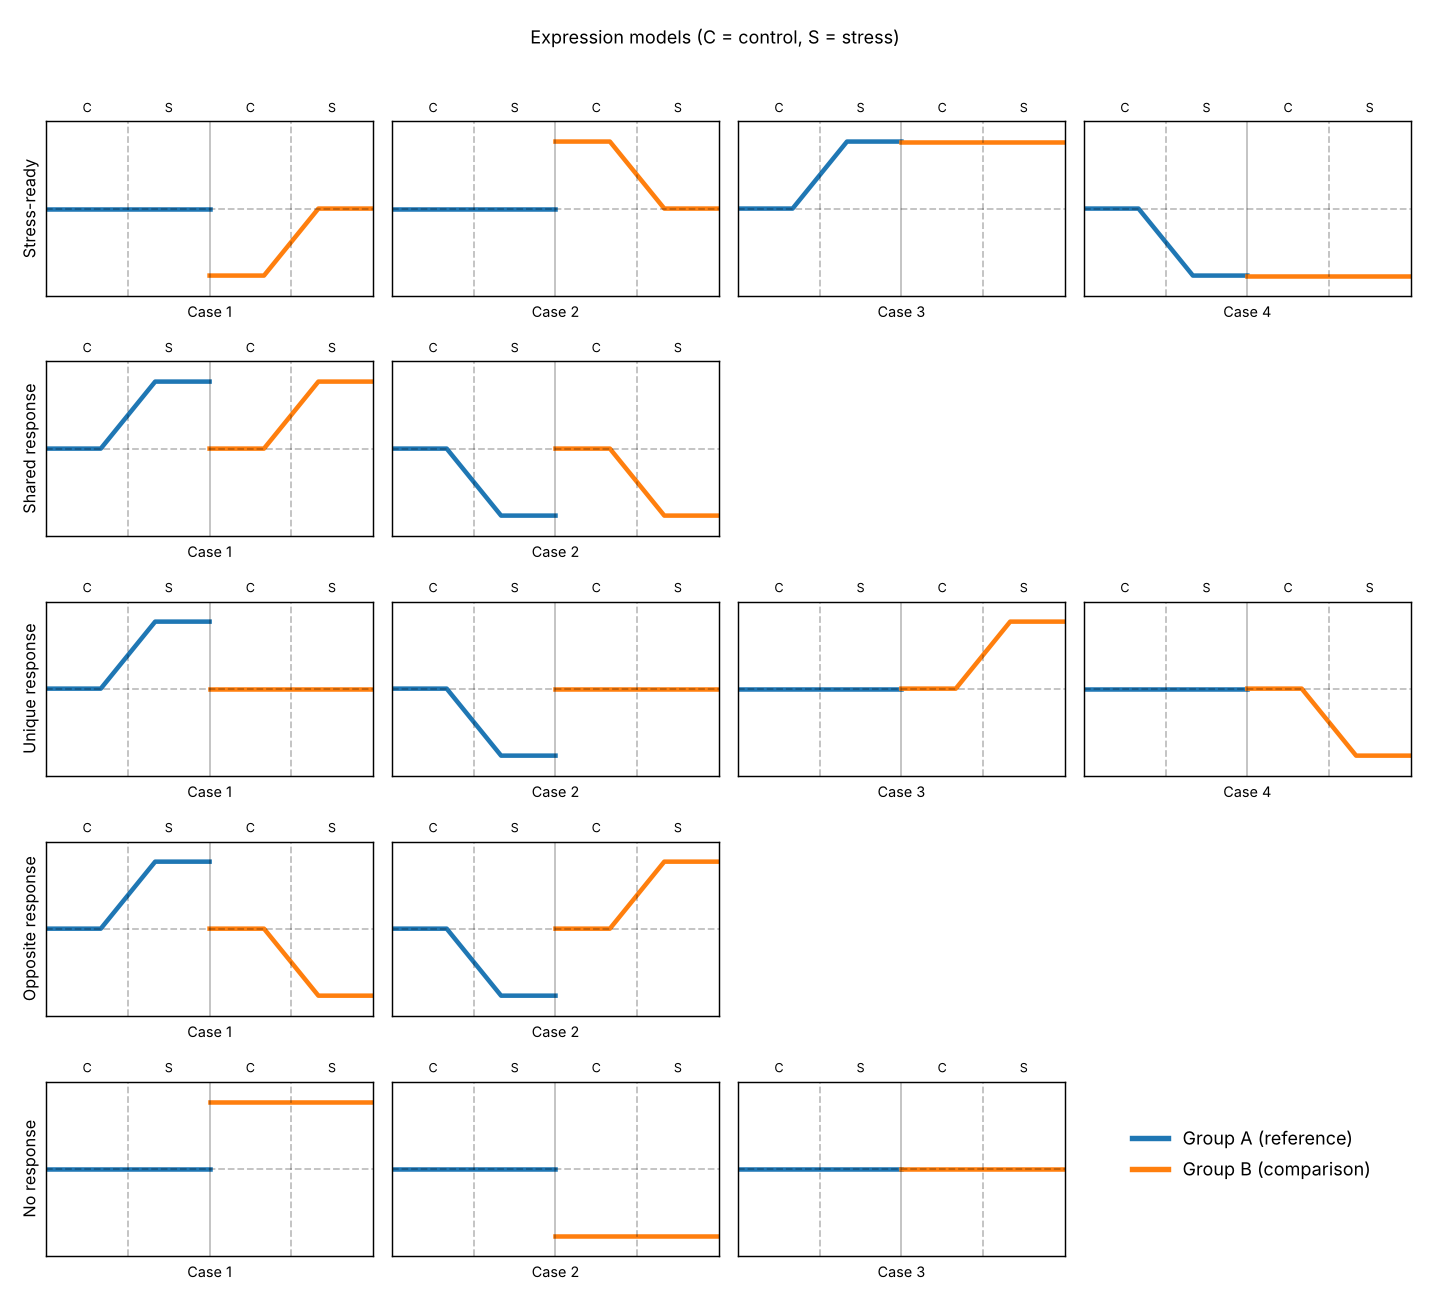
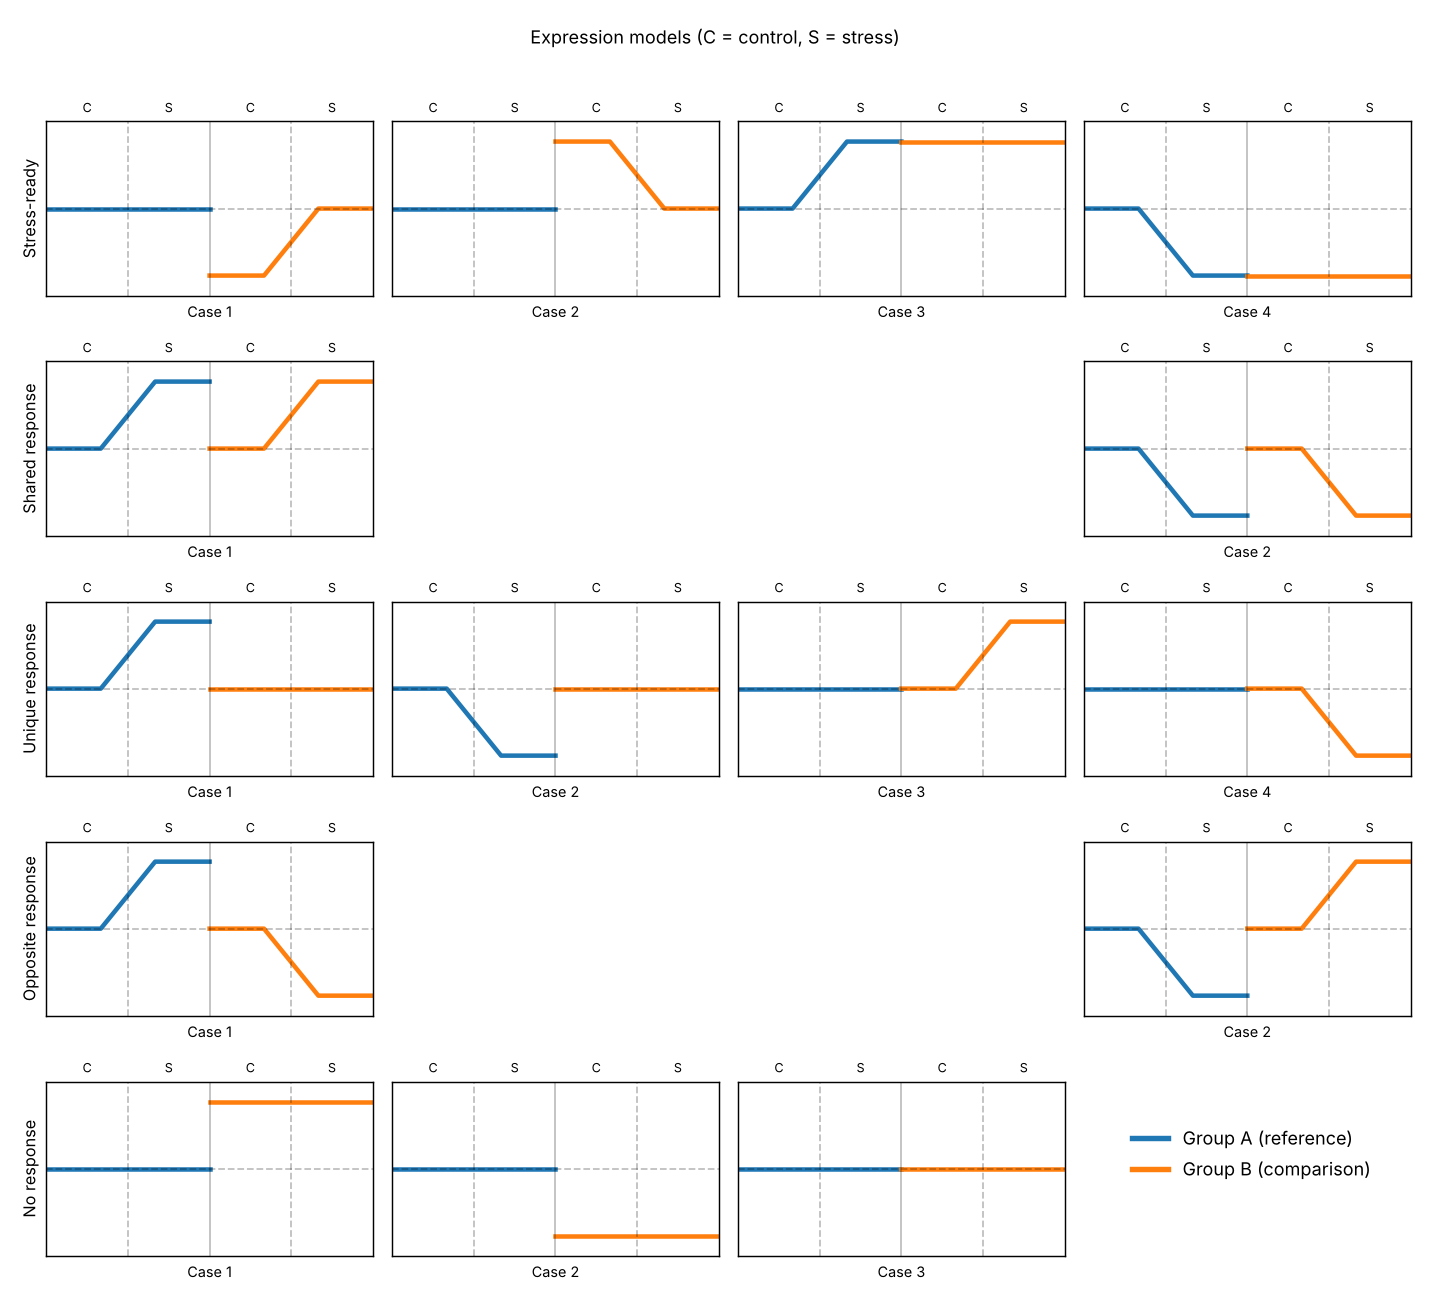
Plot: shared/opposite in outer columns; configurable row labels

diff --git a/python/src/orthoresponse/plotting.py b/python/src/orthoresponse/plotting.py
@@ -32,21 +32,33 @@ PATTERNS = {
     ("no_response", 3): (0, 0, 0, 0),
 }
 
+# (model, [(case, column), ...]); shared and opposite use the outer columns, as in the original Fig. 3
 _ROWS = [
-    ("stress_ready", [1, 2, 3, 4]),
-    ("shared", [1, 2]),
-    ("unique", [1, 2, 3, 4]),
-    ("opposite", [1, 2]),
-    ("no_response", [1, 2, 3]),
+    ("stress_ready", [(1, 0), (2, 1), (3, 2), (4, 3)]),
+    ("shared", [(1, 0), (2, 3)]),
+    ("unique", [(1, 0), (2, 1), (3, 2), (4, 3)]),
+    ("opposite", [(1, 0), (2, 3)]),
+    ("no_response", [(1, 0), (2, 1), (3, 2)]),
 ]
 
-_TITLES = {
+DEFAULT_MODEL_LABELS = {
     "stress_ready": "Stress-ready",
     "shared": "Shared response",
     "unique": "Unique response",
     "opposite": "Opposite response",
     "no_response": "No response",
 }
+
+
+def _model_labels(model_labels):
+    labels = dict(DEFAULT_MODEL_LABELS)
+    if model_labels:
+        unknown = set(model_labels) - set(labels)
+        if unknown:
+            raise ValueError(f"Unknown model(s) in model_labels: {sorted(unknown)}; "
+                             f"valid keys are {list(DEFAULT_MODEL_LABELS)}")
+        labels.update({k: str(v) for k, v in model_labels.items()})
+    return labels
 
 
 DEFAULT_CONDITION_LABELS = ("C", "S")
@@ -80,6 +92,7 @@ def plot_model_patterns(
     classification: Optional[pd.DataFrame] = None,
     group_names: Optional[Sequence[str]] = None,
     condition_labels: Sequence[str] = DEFAULT_CONDITION_LABELS,
+    model_labels: Optional[dict] = None,
     title: Optional[str] = None,
     figsize=(11, 10),
 ):
@@ -99,10 +112,15 @@ def plot_model_patterns(
         Two tick labels, ``(control, stress)``, shown above every panel.
         Default ``("C", "S")``; e.g. ``("C", "D")`` for drought as in the
         original publication, or ``("Ctrl", "NaCl")``.
+    model_labels:
+        Row labels, as a dict keyed by model: ``"stress_ready"``, ``"shared"``,
+        ``"unique"``, ``"opposite"``, ``"no_response"``. Only the keys you give
+        are changed, e.g. ``{"stress_ready": "Primed", "no_response": "Unchanged"}``.
     title:
         Figure title. By default it explains the condition labels.
     """
     condition_labels = _check_labels(condition_labels)
+    row_labels = _model_labels(model_labels)
     import matplotlib.pyplot as plt
     from matplotlib.lines import Line2D
 
@@ -111,13 +129,14 @@ def plot_model_patterns(
     summ = summarize_classification(classification).set_index(["model", "case"]) if classification is not None else None
 
     fig, axes = plt.subplots(len(_ROWS), 4, figsize=figsize)
-    for r, (model, cases) in enumerate(_ROWS):
+    for r, (model, layout) in enumerate(_ROWS):
+        by_col = {col: case for case, col in layout}
         for c in range(4):
             ax = axes[r, c]
-            if c >= len(cases):
+            if c not in by_col:
                 ax.axis("off")
                 continue
-            case = cases[c]
+            case = by_col[c]
             _mini(ax, PATTERNS[(model, case)], condition_labels)
             label = f"Case {case}"
             if summ is not None:
@@ -125,7 +144,7 @@ def plot_model_patterns(
                 pct = summ["pct_of_responsive"].get((model, case), float("nan"))
                 label += f": {n}" + (f" ({pct:.1f}%)" if pd.notna(pct) else "")
             ax.set_xlabel(label, fontsize=8)
-        axes[r, 0].set_ylabel(_TITLES[model], fontsize=9)
+        axes[r, 0].set_ylabel(row_labels[model], fontsize=9)
     handles = [Line2D([0], [0], color=COLOR_A, lw=3), Line2D([0], [0], color=COLOR_B, lw=3)]
     fig.legend(handles, list(group_names), loc="lower right", bbox_to_anchor=(0.97, 0.08), frameon=False)
     if title is None:

diff --git a/python/tests/test_plotting.py b/python/tests/test_plotting.py
@@ -31,3 +31,20 @@ def test_custom_condition_labels_and_title(contrasts):
 def test_condition_labels_validation():
     with pytest.raises(ValueError):
         plot_model_patterns(condition_labels=("Control",))
+
+
+def test_shared_and_opposite_use_outer_columns():
+    fig = plot_model_patterns()
+    grid = [fig.axes[i:i + 4] for i in range(0, 20, 4)]
+    on = [[ax.axison for ax in row] for row in grid]
+    assert on[1] == [True, False, False, True]   # shared
+    assert on[3] == [True, False, False, True]   # opposite
+    assert on[4] == [True, True, True, False]    # no response
+
+
+def test_custom_model_labels():
+    fig = plot_model_patterns(model_labels={"stress_ready": "Primed", "no_response": "Unchanged"})
+    rows = [fig.axes[i].get_ylabel() for i in range(0, 20, 4)]
+    assert rows == ["Primed", "Shared response", "Unique response", "Opposite response", "Unchanged"]
+    with pytest.raises(ValueError):
+        plot_model_patterns(model_labels={"stressready": "x"})

diff --git a/docs/manual.md b/docs/manual.md
@@ -177,20 +177,25 @@ plot_model_patterns(res$classification)
 ### Figure labels
 
 `plot_model_patterns()` labels the two conditions "C" and "S" by default.
-Choose your own with `condition_labels` (control first, stress second) and
-optionally replace the title:
+Choose your own with `condition_labels` (control first, stress second), rename
+any of the row labels with `model_labels` (keys `stress_ready`, `shared`,
+`unique`, `opposite`, `no_response`; the others keep their defaults), and
+optionally replace the title. Shared and opposite responses are drawn in the
+first and fourth columns.
 
 ```python
 from orthoresponse.plotting import plot_model_patterns
 fig = plot_model_patterns(res.classification, condition_labels=("Ctrl", "NaCl"))
 fig = plot_model_patterns(res.classification, condition_labels=("C", "D"),   # D = drought
-                          group_names=("S. lycopersicum", "S. pennellii"), title="Tomato drought")
+                          group_names=("S. lycopersicum", "S. pennellii"), title="Tomato drought",
+                          model_labels={"stress_ready": "Primed", "no_response": "Unchanged"})
 fig.savefig("model_patterns.png", dpi=150)
 ```
 ```r
 plot_model_patterns(res$classification, condition_labels = c("Ctrl", "NaCl"))
 plot_model_patterns(res$classification, condition_labels = c("C", "D"),
-                    group_names = c("S. lycopersicum", "S. pennellii"), title = "Tomato drought")
+                    group_names = c("S. lycopersicum", "S. pennellii"), title = "Tomato drought",
+                    model_labels = c(stress_ready = "Primed", no_response = "Unchanged"))
 ```
 
 ---
@@ -640,7 +645,7 @@ To refit from counts with the published settings use
 | `reciprocal_best_hits()` | `reciprocal_best_hits()` | orthologs from two BLAST files |
 | `read_blast_tabular()`, `best_hits()` | same | BLAST helpers |
 | `merge_ortholog_counts()` | `merge_ortholog_counts()` | ortholog-level count matrix |
-| `plotting.plot_model_patterns()` | `plot_model_patterns()` | the 15 patterns with counts; custom `condition_labels`, `group_names`, `title` |
+| `plotting.plot_model_patterns()` | `plot_model_patterns()` | the 15 patterns with counts; custom `condition_labels`, `model_labels`, `group_names`, `title` |
 | `plotting.plot_summary()` | `plot_summary()` | bar chart of models |
 | `plotting.plot_feature()` | - | normalized counts of one feature |
 | `OrthoResponseResult.save()` | `save_orthoresponse()` | write all outputs |

diff --git a/r-package/NEWS.md b/r-package/NEWS.md
@@ -2,3 +2,4 @@
 
 * First release: decision tree of Contreras-Riquelme et al. (2025) (`preset = "paper"`), strict options (missing values, basal difference, equivalence test), DESeq2 wrapper, reciprocal best hits, ortholog count merging, summaries and plots.
 * `plot_model_patterns()` accepts custom `condition_labels` (default `c("C", "S")`) and `title`.
+* `plot_model_patterns()` accepts custom row labels (`model_labels`) and draws shared and opposite responses in the first and fourth columns.
